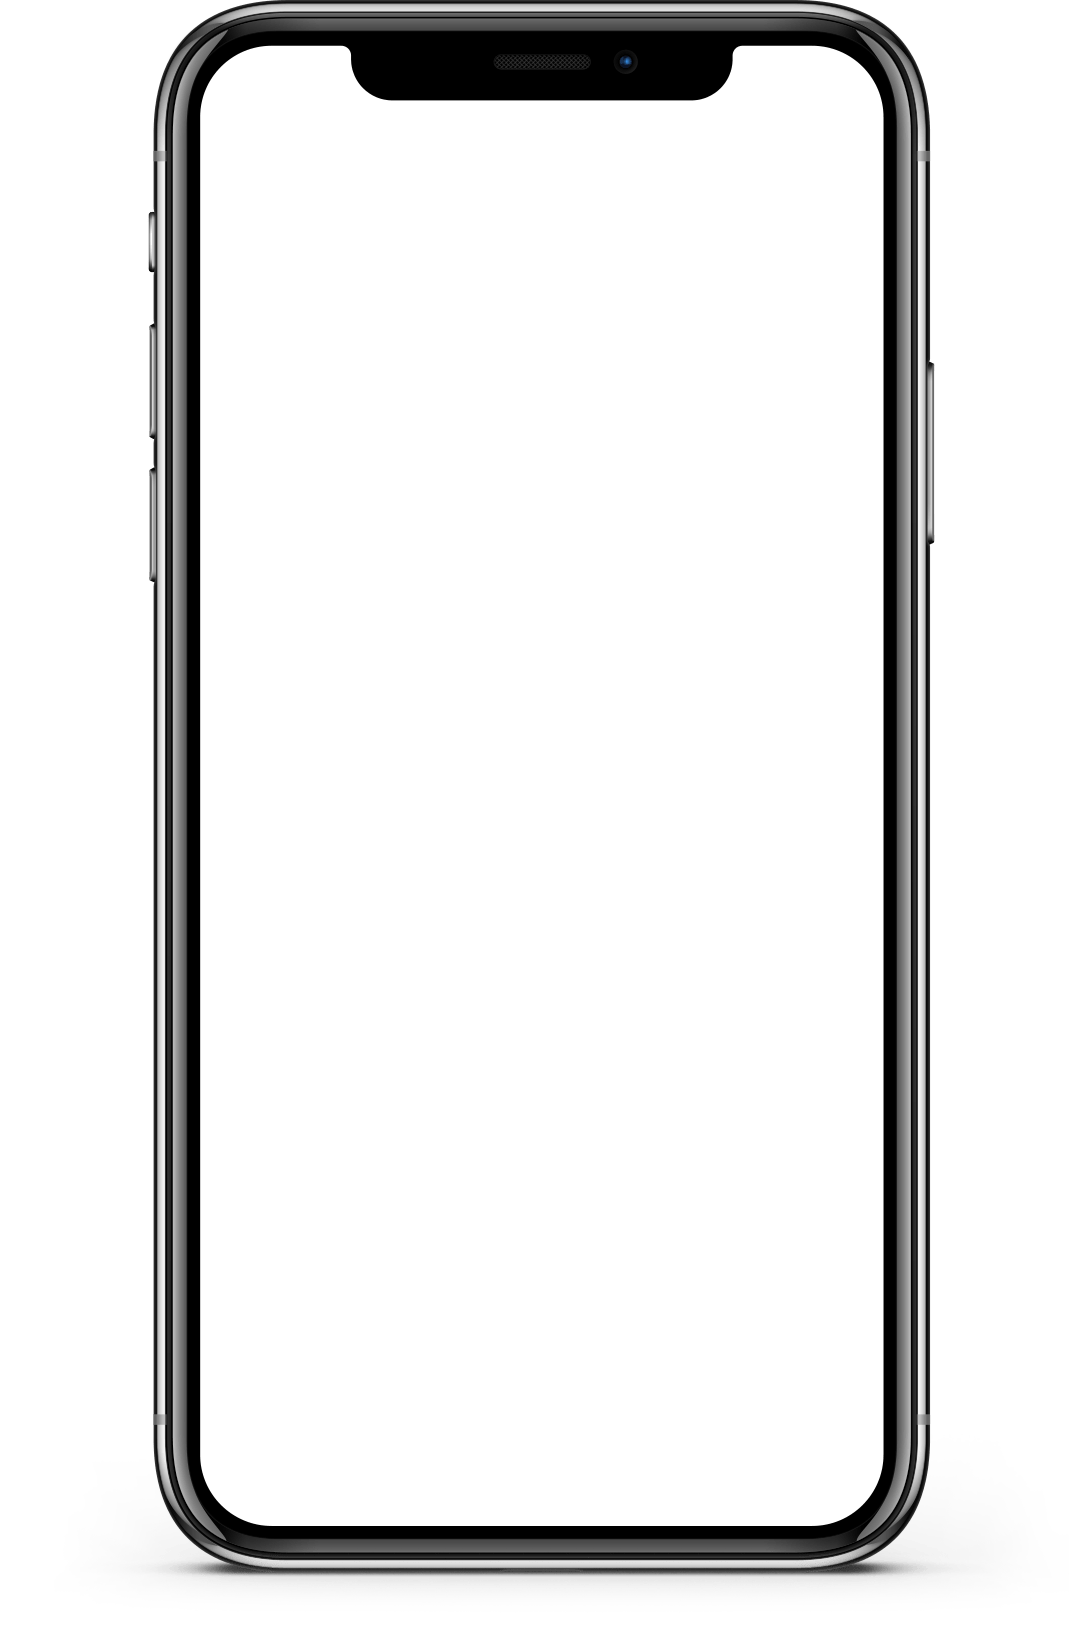
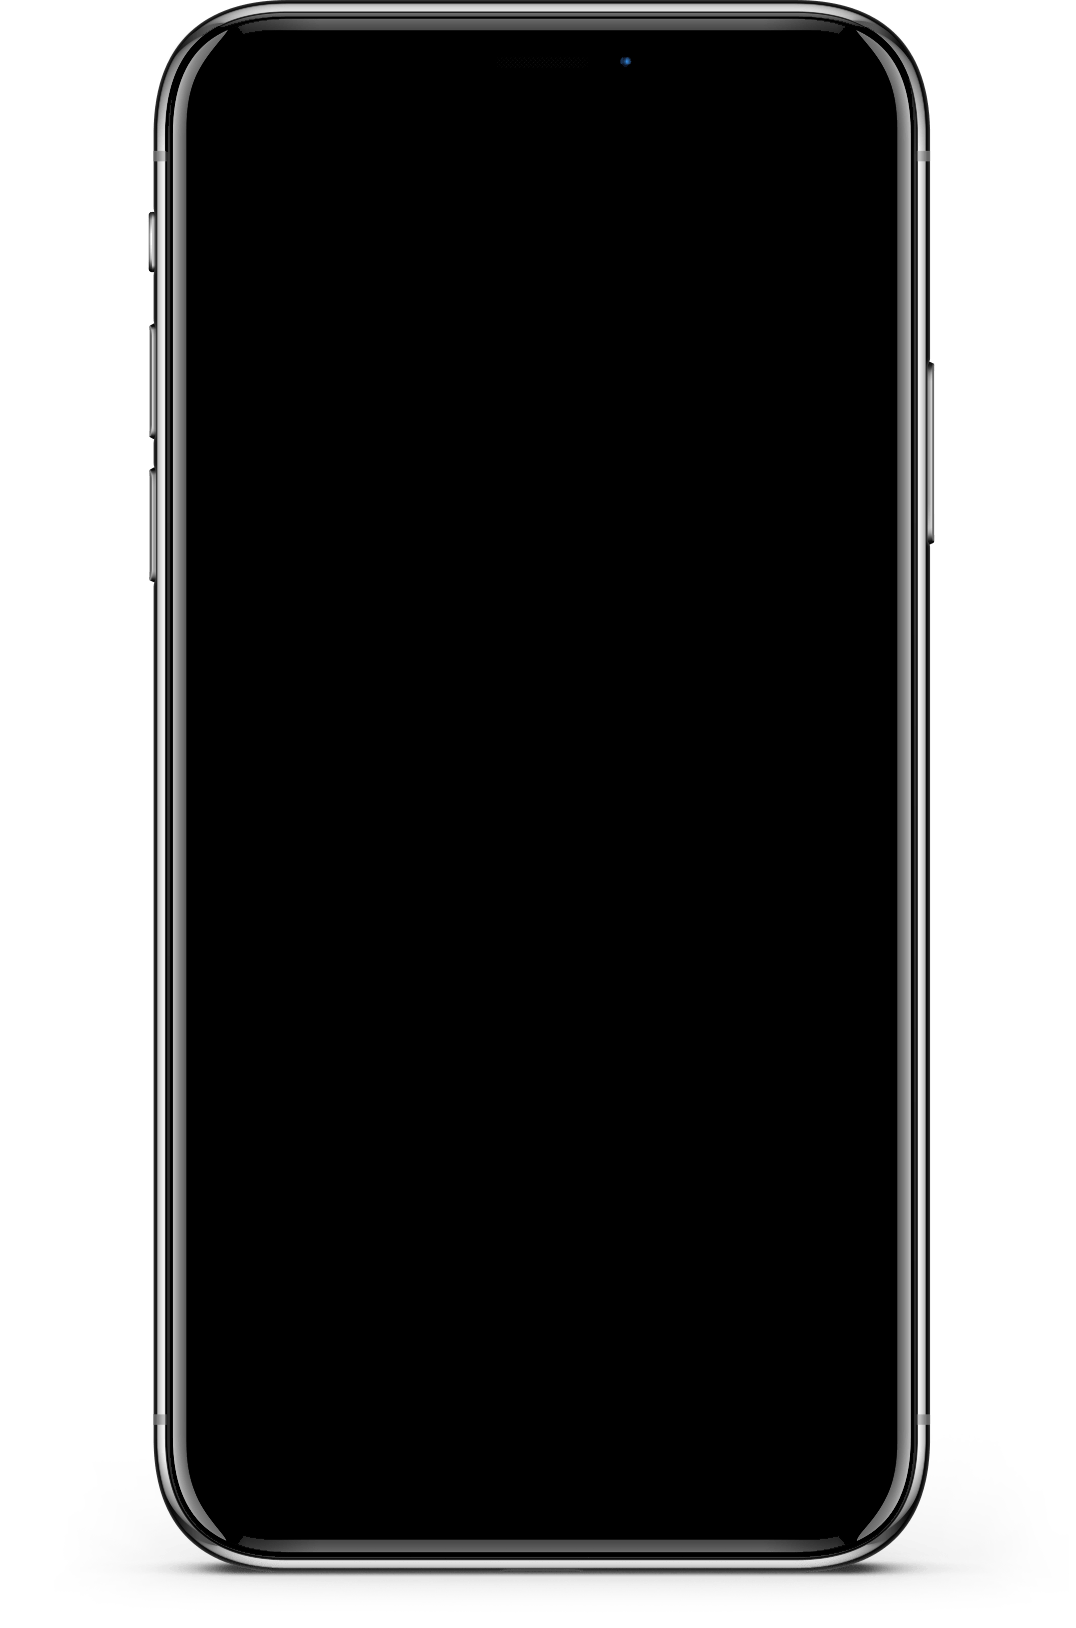
new iphone png and prettier screen

diff --git a/src/App.vue b/src/App.vue
@@ -34,21 +34,24 @@ import iphone from '@/assets/images/iphone.png'
     height: 100vh;
     width: 100vw;
     overflow: scroll;
+    position: relative;
 
     .text {
       color: #fff;
       font-size: 24px;
       font-weight: bold;
       text-align: center;
-      height: 70vh;
+      height: 50vh;
       display: flex;
       align-items: center;
-      padding: 0 16px;
+      padding: 0 32px;
+      position: fixed;
     }
 
     .iphone {
       width: 100%;
       position: relative;
+      margin-top: 50vh;
 
       .image {
         width: 100%;
